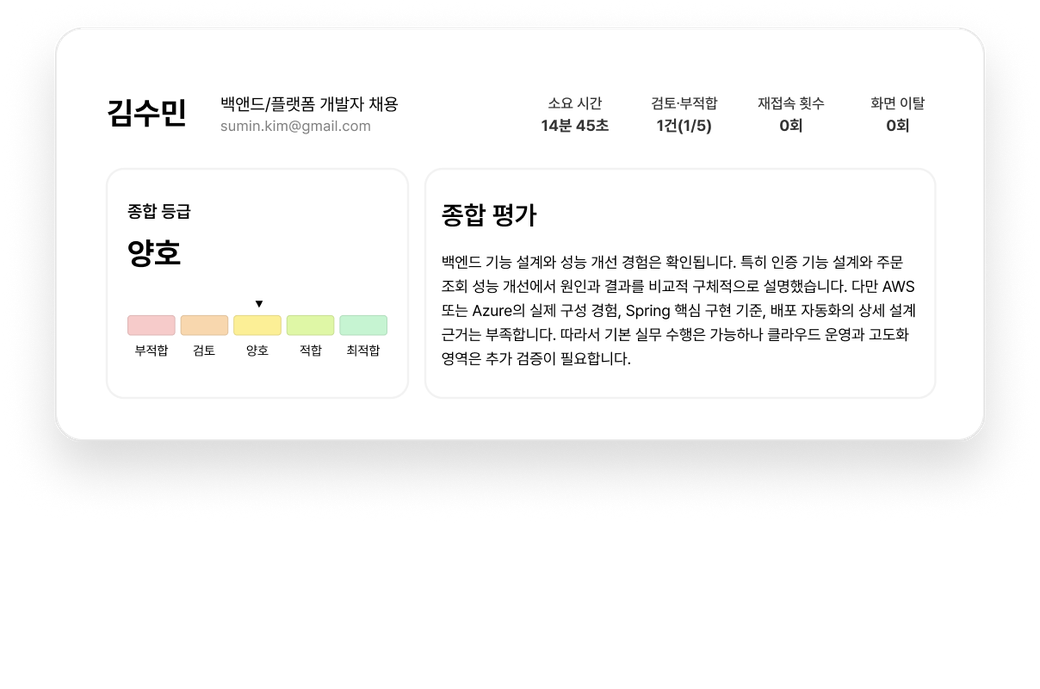
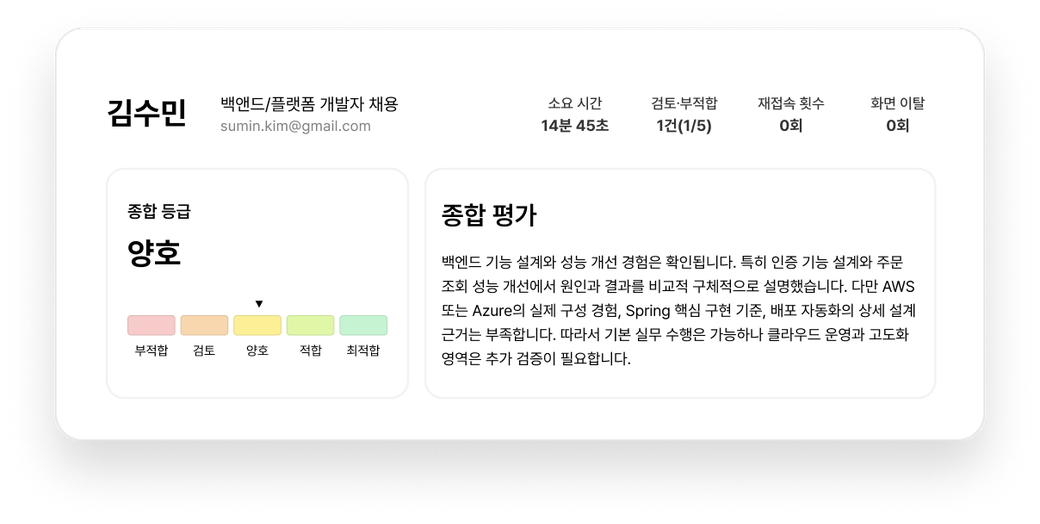
HOW 이미지↔텍스트 간격 축소: 하단 투명여백 트림 + 행 간격 감소
- 이미지 하단 투명 여백 제거(트림): 인터뷰 689→618, 종합평가 689→524 (역량 747 유지)
  → 모바일에서 이미지 바로 다음에 텍스트가 붙도록
- .how-row gap clamp(32,4vw,64) → clamp(16,2vw,32) (데스크톱 좌우 간격↓)
- 모바일 행 간격 22px → 12px
- width/height 갱신(CLS 방지), 데스크톱·모바일 검증, 콘솔 에러 0

diff --git a/index.html b/index.html
@@ -226,14 +226,14 @@
   .demo-video .vtime{position:absolute;right:20px;bottom:20px;background:rgba(0,0,0,.45);color:#fff;font-size:12px;font-weight:700;padding:4px 11px;border-radius:999px}
   /* 리포트 디테일: 텍스트 + 이미지 박스 좌우 교차 3행 */
   .how-rows{max-width:1080px;margin:48px auto 8px;display:grid;gap:clamp(44px,6vw,84px)}
-  .how-row{display:grid;grid-template-columns:1fr 1fr;gap:clamp(32px,4vw,64px);align-items:center}
+  .how-row{display:grid;grid-template-columns:1fr 1fr;gap:clamp(16px,2vw,32px);align-items:center}
   .hr-info{text-align:left}
   .hr-info h3{font-size:clamp(22px,2.6vw,30px);font-weight:800;line-height:1.32;letter-spacing:-.02em;color:var(--ink)}
   .hr-info p{font-size:16px;color:var(--slate);margin-top:14px;line-height:1.62}
   /* 리포트 이미지: 투명 PNG(자체 그림자 포함)를 그대로 노출 — 사각 박스 그림자/테두리 없음(투명 주변 검정·노이즈 방지) */
   .hr-media{width:100%;max-width:520px;margin-inline:auto}
   .hr-img{width:100%;height:auto;display:block}
-  @media(max-width:880px){.how-row{grid-template-columns:1fr;gap:22px}.hr-info{text-align:center}.how-row .hr-media{order:-1}}
+  @media(max-width:880px){.how-row{grid-template-columns:1fr;gap:12px}.hr-info{text-align:center}.how-row .hr-media{order:-1}}
 
   /* 6. PROOF */
   /* 헤드카피 위 여유 공간 — 기본 섹션 패딩보다 상단을 더 넉넉히 */
@@ -659,7 +659,7 @@
     <div class="how-rows">
       <!-- Row 1: 이미지(좌) + 인터뷰 요약(우) -->
       <div class="how-row">
-        <div class="hr-media"><picture><source srcset="report-interview-summary.webp" type="image/webp"><img class="hr-img" src="report-interview-summary.png" alt="AIVIEW 리포트 — 인터뷰 내용 요약과 인터뷰 비디오" width="1040" height="689" loading="lazy"></picture></div>
+        <div class="hr-media"><picture><source srcset="report-interview-summary.webp" type="image/webp"><img class="hr-img" src="report-interview-summary.png" alt="AIVIEW 리포트 — 인터뷰 내용 요약과 인터뷰 비디오" width="1040" height="618" loading="lazy"></picture></div>
         <div class="hr-info">
           <h3>인터뷰 요약</h3>
           <p>AI 면접 대화를 핵심만 간추려, 지원자를 빠르게 파악할 수 있게 정리합니다.</p>
@@ -671,7 +671,7 @@
           <h3>리포트 종합평가</h3>
           <p>직무 적합도를 종합 점수로 환산해, 한눈에 판단할 수 있게 제시합니다.</p>
         </div>
-        <div class="hr-media"><picture><source srcset="report-overall-grade.webp" type="image/webp"><img class="hr-img" src="report-overall-grade.png" alt="AIVIEW 리포트 — 종합 등급(양호)과 종합 평가" width="1040" height="689" loading="lazy"></picture></div>
+        <div class="hr-media"><picture><source srcset="report-overall-grade.webp" type="image/webp"><img class="hr-img" src="report-overall-grade.png" alt="AIVIEW 리포트 — 종합 등급(양호)과 종합 평가" width="1040" height="524" loading="lazy"></picture></div>
       </div>
       <!-- Row 3: 이미지(좌) + 역량평가(우) -->
       <div class="how-row">
